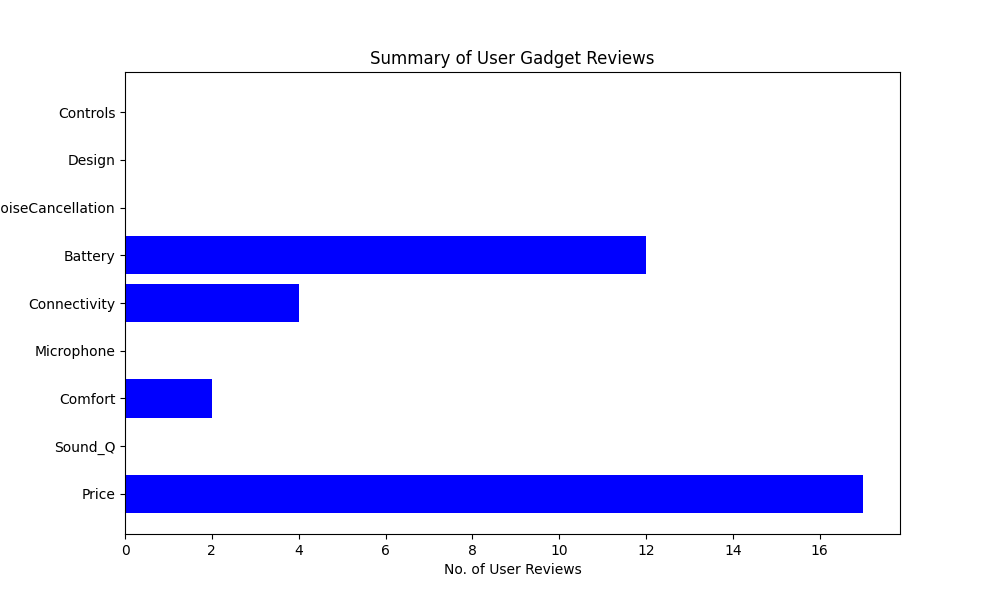
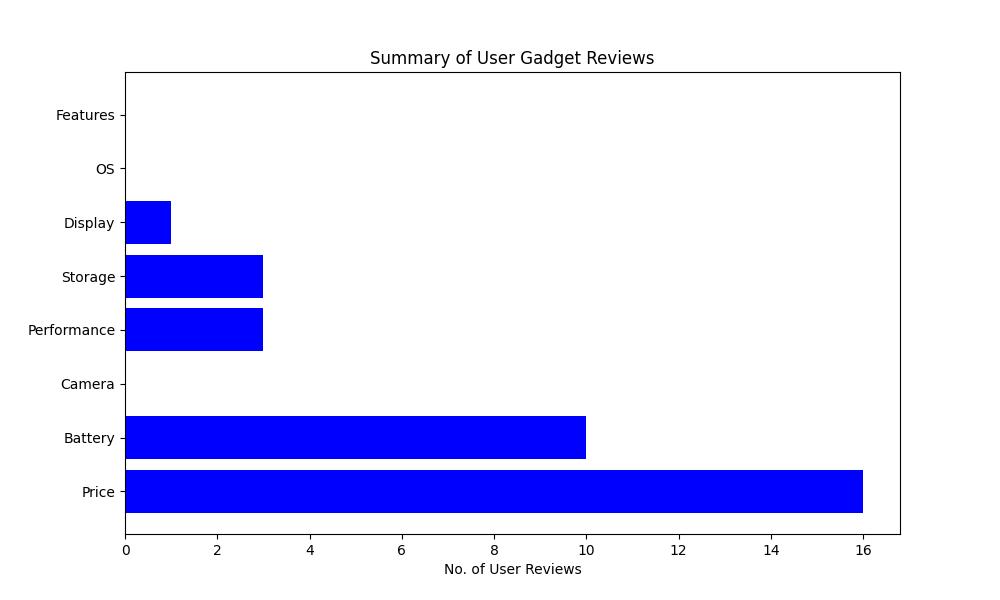
modified:   app.py 	modified:   static/HTML/images/Summary_Graph.png 	new file:   static/gadgetimageuploads/2ab8bfe5280744018a35f1a44817d684.jpg 	new file:   static/gadgetimageuploads/897767c57f1b4e0993418842ddcc00b2.jpg 	new file:   static/gadgetimageuploads/d1d8685b07b745869cccae3b2fb71269.jpg 	ne

diff --git a/templates/index.html b/templates/index.html
@@ -39,6 +39,8 @@
     }
 
     function validateotherselection(gadgetmodel){
+
+
       const form = document.getElementById('otherRecommendation')
       const jsmodel =  gadgetmodel
       alert (jsmodel);
@@ -53,6 +55,12 @@
     }
 
     function validateUserInput(){
+      
+      const fb_model ="{{complete_gadget}}";
+      if (fb_model.length < 1){
+        alert ("You should use the system first before giving feedback");
+        return false;
+      }
       //validateselection();
 
       const myform = document.forms["userFeedback"];

diff --git a/app.py b/app.py
@@ -39,7 +39,7 @@ with open('vocab.json', 'r') as f:
     vocab = json.load(f)
 
 # Global variables
-global_table_name = "Generic"
+global_table_name = "generic"
 list_attrib = []
 
 # Repository folder for uploads
@@ -263,7 +263,6 @@ def modelrecommendation():
 
     shop_loc_list = sub_AIresult_Shop_Loc(item_desc)
     print ("----->>> COMPLETED - GENERATE AI SHOPS LOCATIONS")
-
 
     dev_images1,dev_images2,dev_images3,dev_images4 = sub_OpenAI(gadgetmodel, type, brand)
     print ("----->>> COMPLETED - IMAGES LOADED")
@@ -660,8 +659,6 @@ def attrib_table(temp_df_attrib, gadgettype):
     df_reviews = temp_df_attrib.drop(axis=1, columns=["Date", "Rev_No", "Username"])
     df = pd.DataFrame()
 
-
-
     def extract_attrib(attrib_value):
         df_temp = df_reviews.loc[df_reviews["Reviews"].str.contains(attrib_value, regex=False)]
         df_temp["Reviews"] = df_temp["Reviews"].str.replace('[0-9]', "", regex=True)
@@ -726,7 +723,7 @@ def attrib_table(temp_df_attrib, gadgettype):
         return df_temp
     print (gadgettype + " >> Gadget type")
     global list_attrib
-    if gadgettype == "Ear Buds" or gadgettype == "Earphone":
+    if gadgettype == "Ear Buds" or gadgettype == "Earphone" or gadgettype == "Headphone":
         list_attrib = ["price", "audio", "comfort", "microphone", "connectivity", "battery","noisecancellation","design","controls" ]
     elif gadgettype == "Smartphone" or gadgettype == "Tablet":
         list_attrib = ["price","battery","camera","performance", "storage", "screen","OS"]
@@ -739,7 +736,7 @@ def attrib_table(temp_df_attrib, gadgettype):
         df = pd.concat([df, extract_attrib(attrib)])
     # df[df["Attribute"] == "memory"]
     # attrib_matrix = pd.DataFrame(columns=["Model", "Batt_PR", "Scr_PR", "Spd_PR", "Mem_PR", "Aud_PR"])
-    if gadgettype == "Ear Buds" or gadgettype == "Earphone":
+    if gadgettype == "Ear Buds" or gadgettype == "Earphone" or gadgettype == "Headphone":
         attrib_matrix = pd.DataFrame(columns=["Model", "Price", "Sound_Q", "Comfort", "Microphone", "Connectivity","Battery","NoiseCancellation","Design","Controls"])
     elif gadgettype == "Smartphone" or gadgettype == "Tablet":
         attrib_matrix = pd.DataFrame(columns=["Model", "Price", "Battery", "Camera", "Performance", "Storage","Display","OS","Features"])
@@ -751,7 +748,6 @@ def attrib_table(temp_df_attrib, gadgettype):
 
     
     def convert_to_matrix(gadget_model):
-
         df_model = df.loc[df["Model"].str.contains(gadget_model)]
         df_rev = df_model.loc[df_model["Reviews"].str.contains("battery")]
         battery = df_rev["Rating"].value_counts().get(1,0)
@@ -944,7 +940,7 @@ def evaluate_lstm_model_pytorch(lstm_model, test_loader, label_encoder, device='
 
 def sub_KMeans(gadgettype):
     try:
-        gadgettype = "Smartphone"
+        # gadgettype = "Smartphone"
         kmeans_df = pd.read_sql("SELECT Rev_No, Model, Rating FROM gadget_reviews where Type='" + gadgettype + "'", sqlengine)
         kmeans_df = kmeans_df.iloc[:10000,:]
         df_reco = kmeans_df[["Rev_No",'Model', 'Rating']]
